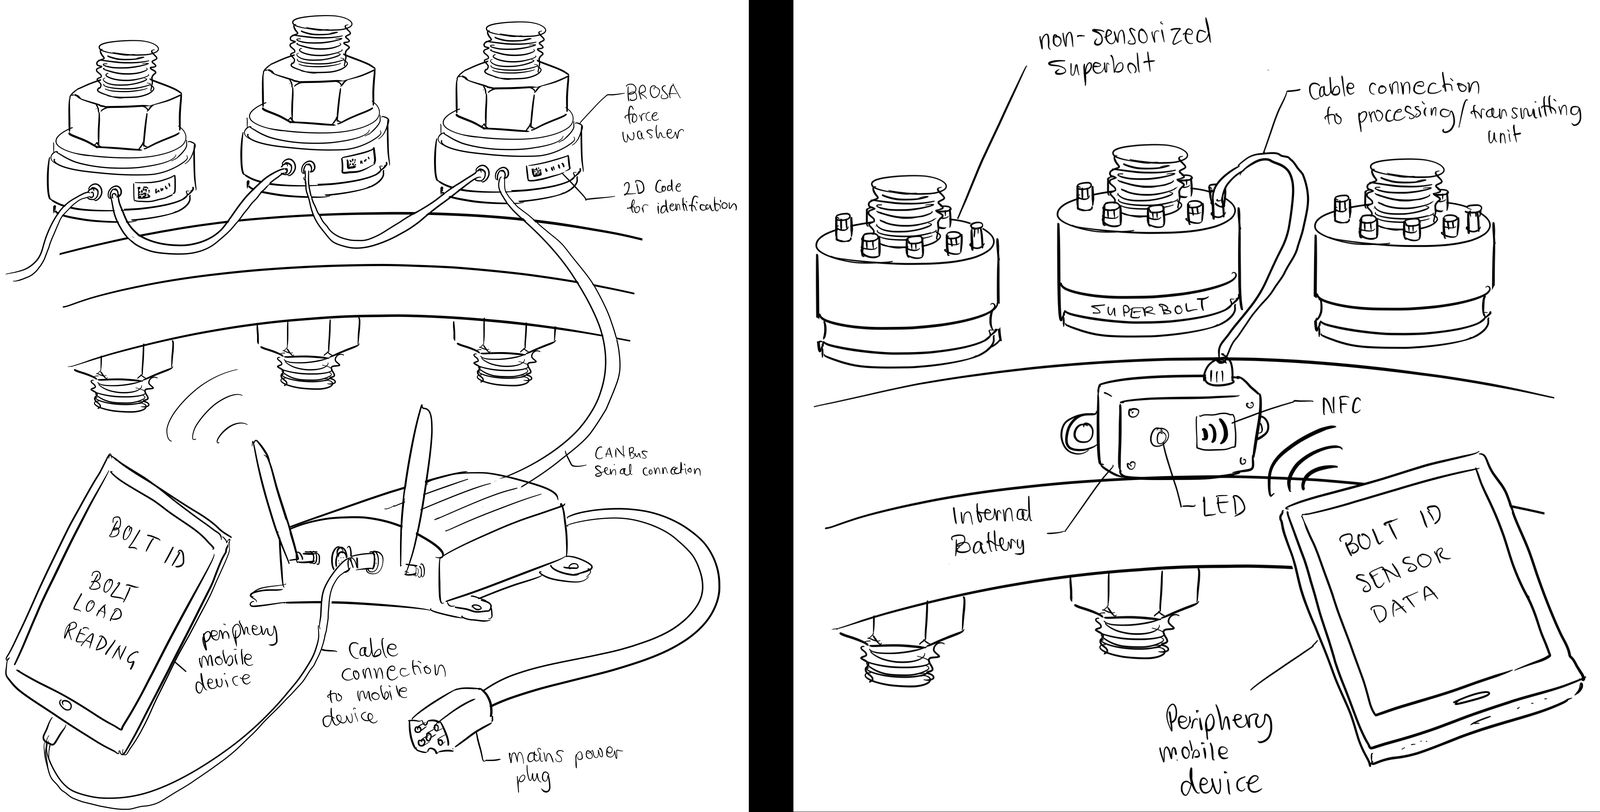
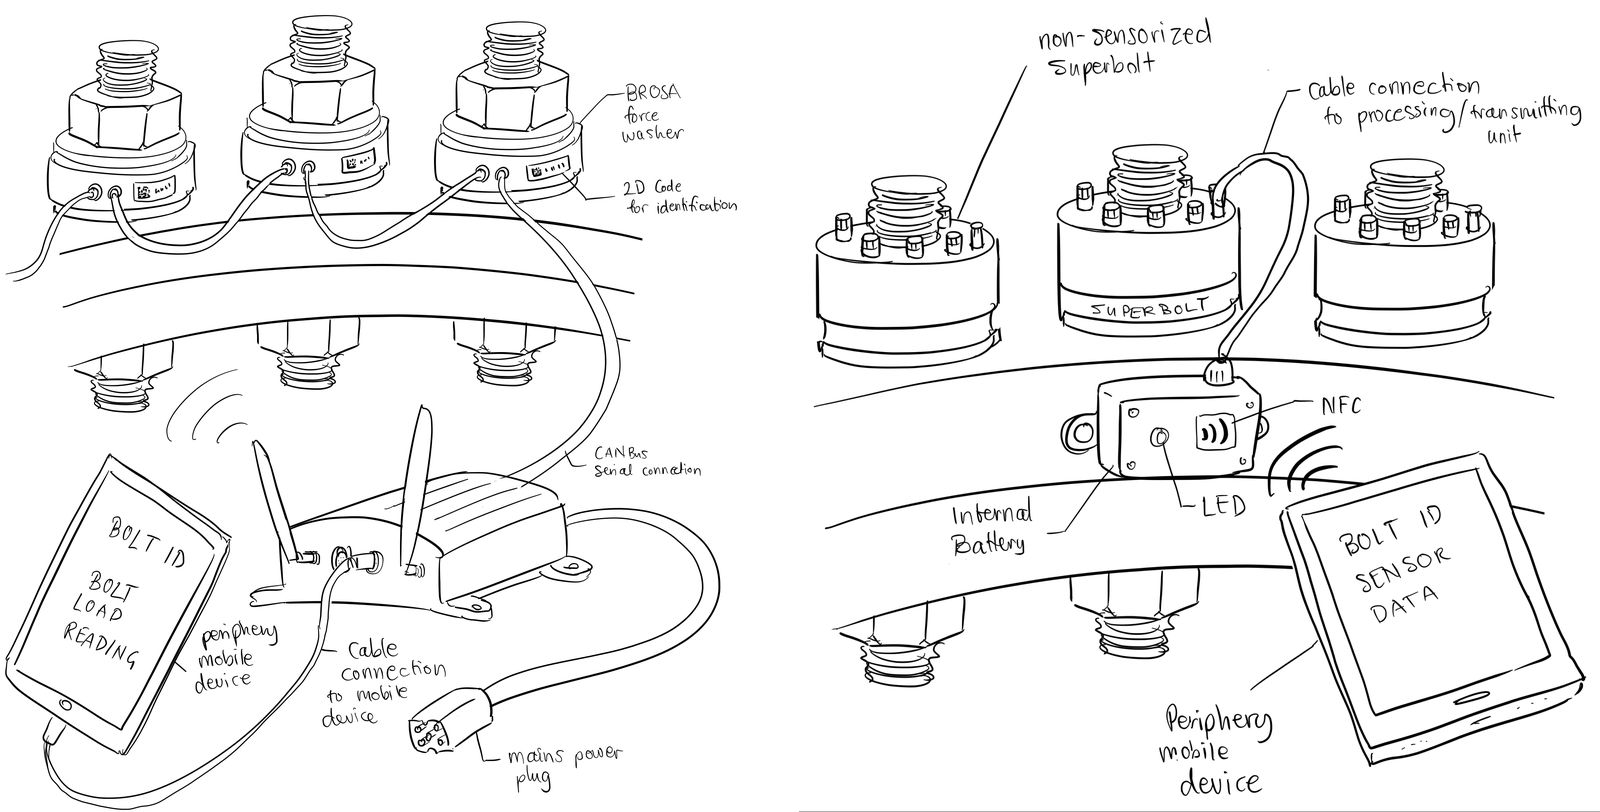
added some caption credits

Changed region(s): [[0.4688, 0.0, 0.5, 1.0]]

diff --git a/js/data.js b/js/data.js
@@ -19,6 +19,7 @@ I aimed to create a more reliable way to track mood over time, recognizing that 
 <h2 class="text-2xl font-bold mt-12 mb-6 text-gray-900 border-b border-gray-100 pb-3">Mood tracking apps</h2>
 In order to capture a wider timeline of emotions, not just those occurring while around the physical device, I explored mood-tracking apps. A common issue I noticed was that most relied on a one-dimensional "Bad-to-Good" scale, which I found inaccurate. The <em>How We Feel</em> app, which organizes emotions based on the two dimensions of <strong>valence</strong> (pleasantness) and <strong>arousal</strong> (energy), offered a much more accurate model.
 <div class="my-12 flex justify-center"><img src="images/projects/mood-logger/story-emotion-tracking-assistant-2Kgl.jpg" alt="How We Feel app UI" class="max-w-full rounded-2xl shadow-xl border border-gray-100 cursor-zoom-in" loading="lazy" onclick="openLightbox(this.src)" /></div>
+<em>Screenshot:</em> How We Feel <em>App</em>
 <p class="mb-6 leading-relaxed text-gray-700">While this was app was surprisingly effective for building emotional vocabulary, it led to a new problem: I became an expert at describing negative states but rarely remembered to log positive ones. The act of sifting through negative terms to find the right one often led to a feedback loop that often deepened my negative mood.</p>
 <hr class="my-12 border-gray-200">
 <h3 class="text-xl font-bold mt-10 mb-4 text-gray-900">Mood tracking fidget cube</h3>
@@ -33,7 +34,7 @@ The next steps for this project involve developing the firmware to ensure a seam
     {
       "id": "002",
       "thumbnailUrl": "images/projects/puppet-synthesizer/thumbnail-puppet-synthesizer-audiovisual-installation-wip-9b.jpg",
-      "title": "Puppet Synthesizer: Audiovisual Installation",
+      "title": "Puppet Synthesizer - Audiovisual Installation",
       "description": "Designing the user interface and playable interactive installation for The Museum of the Future at ZHdK Museum für Gestaltung Zürich.",
       "company": "ZHdK / Museum für Gestaltung",
       "status": "published",
@@ -548,6 +549,7 @@ Throughout the project, we developed several promising prototypes with potential
 Dot Incorporation is a South Korean startup producing innovative assistive technology for the blind such as braille smart watches, tactile braille displays, and accessible information kiosks.
 <p class="mb-6 leading-relaxed text-gray-700">Dot Pad is the first smart tactile graphics display for the visually impaired that enables the user to access visual content such as handwriting, graphs, equations, photos, documents, sketches and art in real time via 2400 tactile braille pins.</p>
 <div class="my-12 flex justify-center"><img src="images/projects/tactile-displays-ux/story-dot-inc-x-apple-ux-concept-development-for-tactile-displays-upCM.jpg" alt="Dot Pad Interface" class="max-w-full rounded-2xl shadow-xl border border-gray-100 cursor-zoom-in" loading="lazy" onclick="openLightbox(this.src)" /></div>
+<em>Photo: Dot Inc</em>
 <hr class="my-12 border-gray-200">
 <h2 class="text-2xl font-bold mt-12 mb-6 text-gray-900 border-b border-gray-100 pb-3">Task</h2>
 To ensure Dot's tactile displays integrate seamlessly with iOS and macOS devices, we engaged in a collaborative effort with Apple Inc.

diff --git a/projects/mood-logger/archive.md b/projects/mood-logger/archive.md
@@ -28,6 +28,7 @@ However, I quickly realized a critical flaw: such a device could have the negati
 In order to capture a wider timeline of emotions, not just those occurring while around the physical device, I explored mood-tracking apps. A common issue I noticed was that most relied on a one-dimensional "Bad-to-Good" scale, which I found inaccurate. The *How We Feel* app, which organizes emotions based on the two dimensions of **valence** (pleasantness) and **arousal** (energy), offered a much more accurate model.
 
 ![How We Feel app UI](images/story-emotion-tracking-assistant-2Kgl.png)
+*Screenshot:* How We Feel *App*
 
 While this was app was surprisingly effective for building emotional vocabulary, it led to a new problem: I became an expert at describing negative states but rarely remembered to log positive ones. The act of sifting through negative terms to find the right one often led to a feedback loop that often deepened my negative mood.
 

diff --git a/projects/where-the-river-hides/archive.md b/projects/where-the-river-hides/archive.md
@@ -32,6 +32,7 @@ Drawing from environmental engineering and ecology, we found that the most effec
 
 ![Flow deflections](images/story-where-the-river-hides-design-interventions-for-an-overheating-river-Ne1h.png)
 
+
 Our proposal combines these approaches: a woven willow obstacle that redirects the river’s flow, deepens the riverbed, and erodes part of the bank to form a shaded refuge pool. Vegetation helps stabilize the structure, provides natural shade, and integrate it into the ecosystem.
 
 ![Willow structure](images/story-where-the-river-hides-design-interventions-for-an-overheating-river-kh9u.jpeg)

diff --git a/projects/puppet-synthesizer/archive.md b/projects/puppet-synthesizer/archive.md
@@ -3,7 +3,7 @@ id: 002
 company: "ZHdK / Museum für Gestaltung"
 status: published
 thumbnailUrl: "images/thumbnail-puppet-synthesizer-audiovisual-installation-wip-9b.png"
-title: "Puppet Synthesizer: Audiovisual Installation"
+title: "Puppet Synthesizer - Audiovisual Installation"
 description: "Designing the user interface and playable interactive installation for The Museum of the Future at ZHdK Museum für Gestaltung Zürich."
 type: "Interaction Design"
 date: "Feb 2025"

diff --git a/projects/tactile-displays-ux/archive.md b/projects/tactile-displays-ux/archive.md
@@ -20,6 +20,7 @@ Dot Incorporation is a South Korean startup producing innovative assistive techn
 Dot Pad is the first smart tactile graphics display for the visually impaired that enables the user to access visual content such as handwriting, graphs, equations, photos, documents, sketches and art in real time via 2400 tactile braille pins.
 
 ![Dot Pad Interface](images/story-dot-inc-x-apple-ux-concept-development-for-tactile-displays-upCM.png)
+*Photo: Dot Inc*
 
 ---
 

diff --git a/_todos.md b/_todos.md
@@ -24,7 +24,7 @@
 - [ ] Add logos to the institutions
 - [ ] Add links to the institutions
 - [ ] Add optional feature for "Mentors" or "Supported by"
-- [ ] Add credits - either in alt text or in caption or over image
+- [X] Add credits - either in alt text or in caption or over image
 
 ## Go-Live
 
